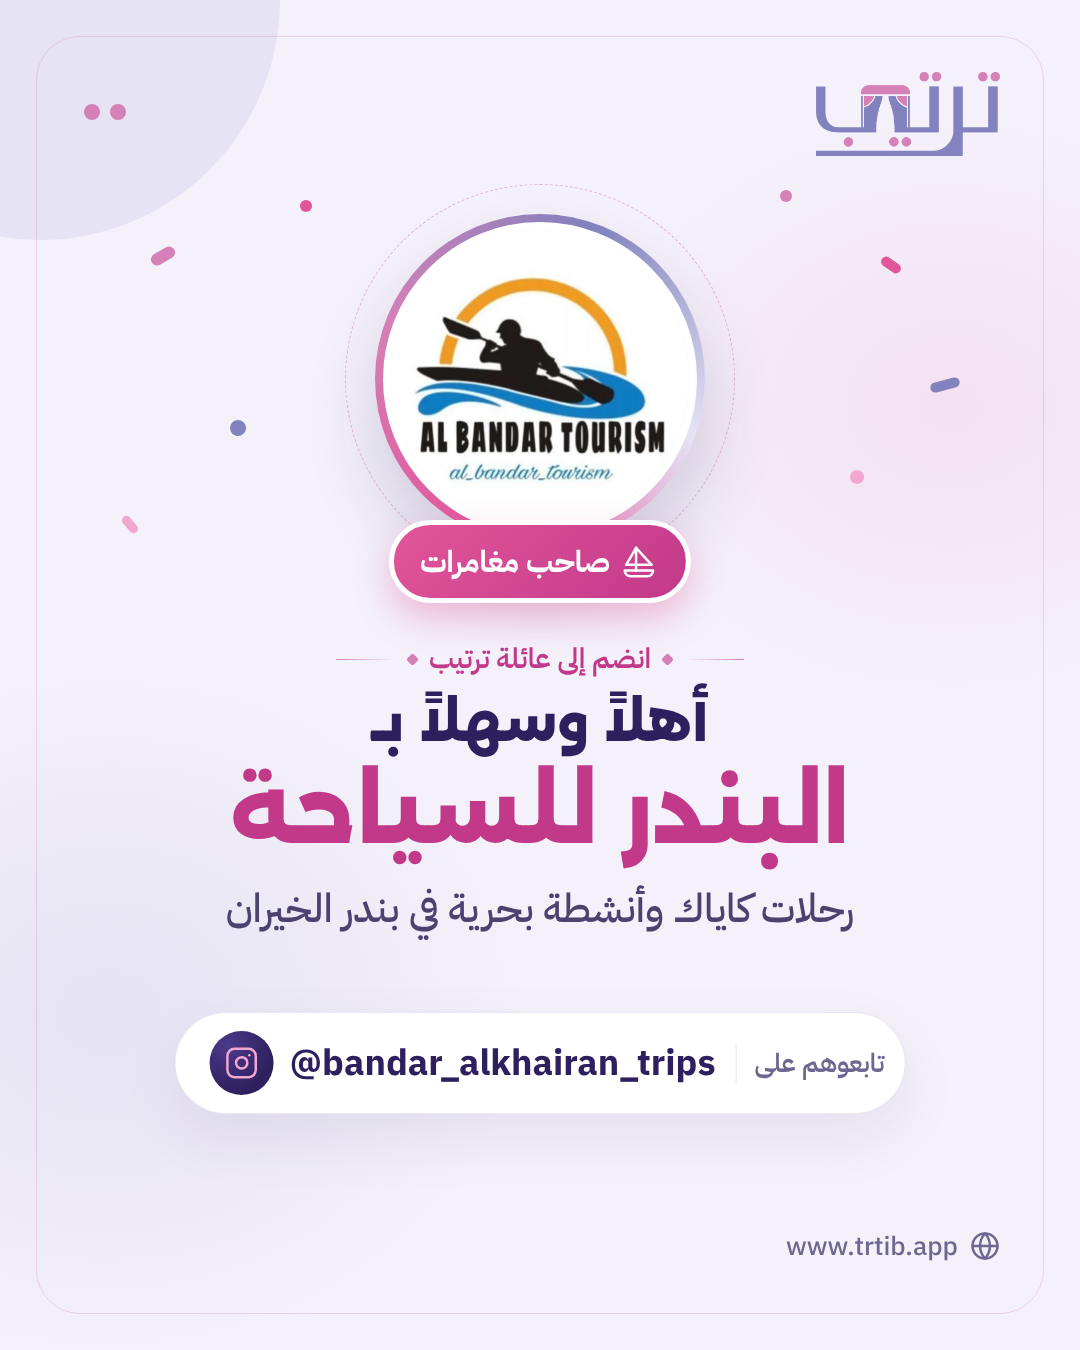
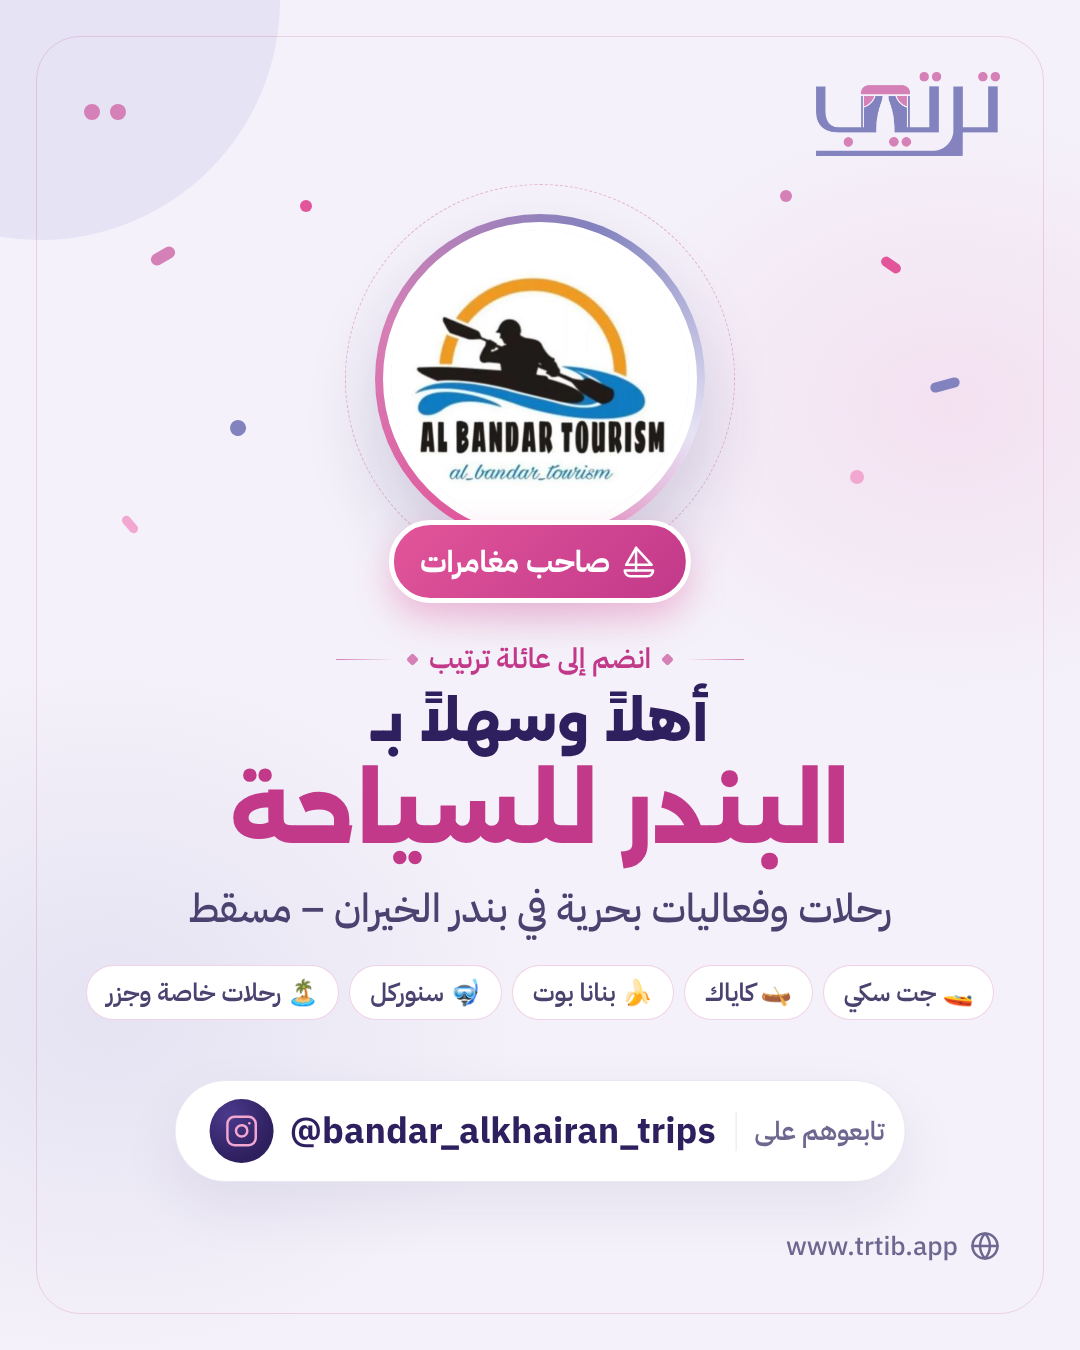
Update Al Bandar welcome post with their activities
Claude-Session: https://claude.ai/code/session_01Y4xLTeejd6Revr1vrrAijT

diff --git a/marketing/instagram/source/welcome.py b/marketing/instagram/source/welcome.py
@@ -16,6 +16,9 @@ WCSS='''
 .handle b{font:700 36px 'IBM Plex Sans Arabic';color:#2E1F5E;direction:ltr}
 .handle .ig{width:64px;height:64px;border-radius:50%;background:radial-gradient(circle at 30% 25%,#4B3A8C,#2E1F5E 70%);display:flex;align-items:center;justify-content:center}
 .handle .hint{font:600 26px 'IBM Plex Sans Arabic';color:#6E6890;direction:rtl;padding-left:6px;border-left:1.5px solid #E6E3F5;padding-left:18px;margin-left:4px}
+.tags{display:flex;justify-content:center;flex-wrap:wrap;gap:10px;margin-top:22px}
+.tags span{font:600 25px 'IBM Plex Sans Arabic';color:#4B4270;background:#fff;border:1px solid rgba(213,128,182,.35);padding:8px 20px;border-radius:999px;white-space:nowrap}
+.has-tags .handle{top:1080px}
 '''
 CONF=[(150,250,26,12,'#D580B6',-30),(230,420,16,16,'#8182BE',20),(880,260,22,10,'#E2559A',35),(850,470,14,14,'#F2A7D0',0),(930,380,30,10,'#8182BE',-15),(120,520,20,9,'#F2A7D0',50),(300,200,12,12,'#E2559A',0),(780,190,12,12,'#D580B6',0)]
 def page(v):
@@ -23,7 +26,7 @@ def page(v):
     conf=''.join(f'<i class="conf" style="left:{x}px;top:{y}px;width:{w}px;height:{h}px;background:{c};transform:rotate({r}deg);{"border-radius:50%" if w==h else ""}"></i>' for x,y,w,h,c,r in CONF)
     return f'''<!doctype html><html lang="ar" dir="rtl"><head><meta charset="utf-8">
 <link href="https://fonts.googleapis.com/css2?family=Alexandria:wght@800&family=IBM+Plex+Sans+Arabic:wght@500;600;700&display=block" rel="stylesheet">
-<style>{CSS}{WCSS}</style></head><body><div class="post"><div class="glow"></div><div class="frame"></div>
+<style>{CSS}{WCSS}</style></head><body><div class="post{' has-tags' if v.get('tags') else ''}"><div class="glow"></div><div class="frame"></div>
 <div class="dots"><i></i><i></i></div>{conf}
 <div class="w-ring"></div><div class="w-av"><div class="in">{photo}</div></div>
 <div class="w-chip">{icon(v["icon"],"#fff",34)}<span>{v["cat"]}</span></div>
@@ -32,6 +35,7 @@ def page(v):
  <div class="pre">أهلاً وسهلاً بـ</div>
  <h1>{v["name"]}</h1>
  <p>{v["desc"]}</p>
+ {('<div class="tags">'+''.join(f'<span>{t}</span>' for t in v['tags'])+'</div>') if v.get('tags') else ''}
 </div>
 <div class="handle"><div class="ig">{icon("instagram","#F2A7D0",34)}</div><b>{v["handle"]}</b><span class="hint">تابعوهم على</span></div>
 </div></body></html>'''

diff --git a/marketing/instagram/source/welcome_albandar.py b/marketing/instagram/source/welcome_albandar.py
@@ -1,3 +1,3 @@
 from welcome import page, D
 (D/'08-welcome-albandar.html').write_text(page(dict(icon='sailboat',cat='صاحب مغامرات',name='البندر للسياحة',
-  desc='رحلات كاياك وأنشطة بحرية في بندر الخيران',handle='@bandar_alkhairan_trips',photo='logo-albandar.png')))
+  desc='رحلات وفعاليات بحرية في بندر الخيران – مسقط',tags=['🚤 جت سكي','🛶 كاياك','🍌 بنانا بوت','🤿 سنوركل','🏝 رحلات خاصة وجزر'],handle='@bandar_alkhairan_trips',photo='logo-albandar.png')))
